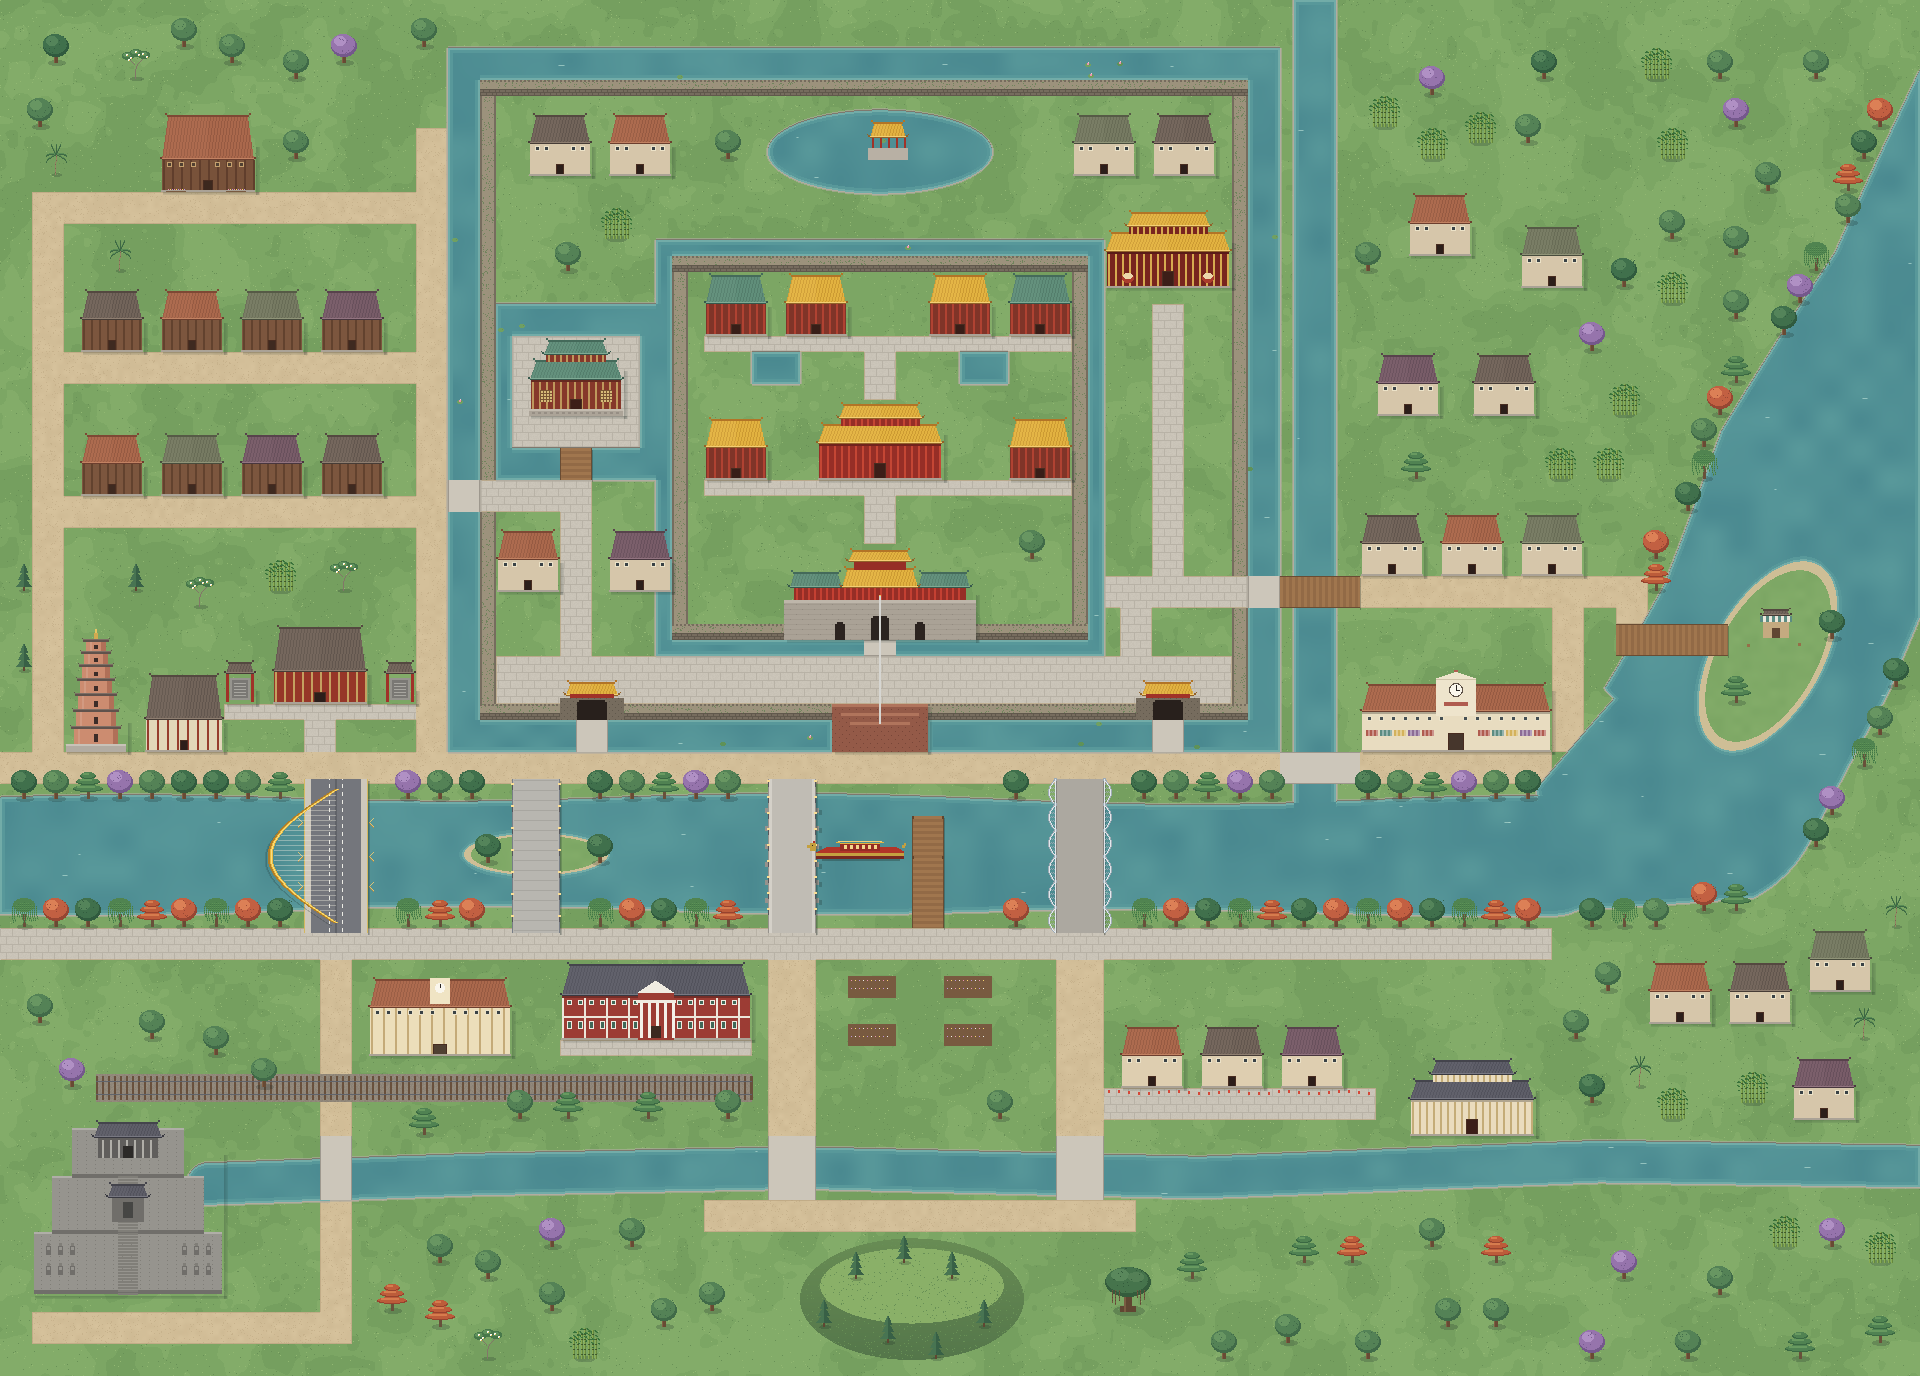
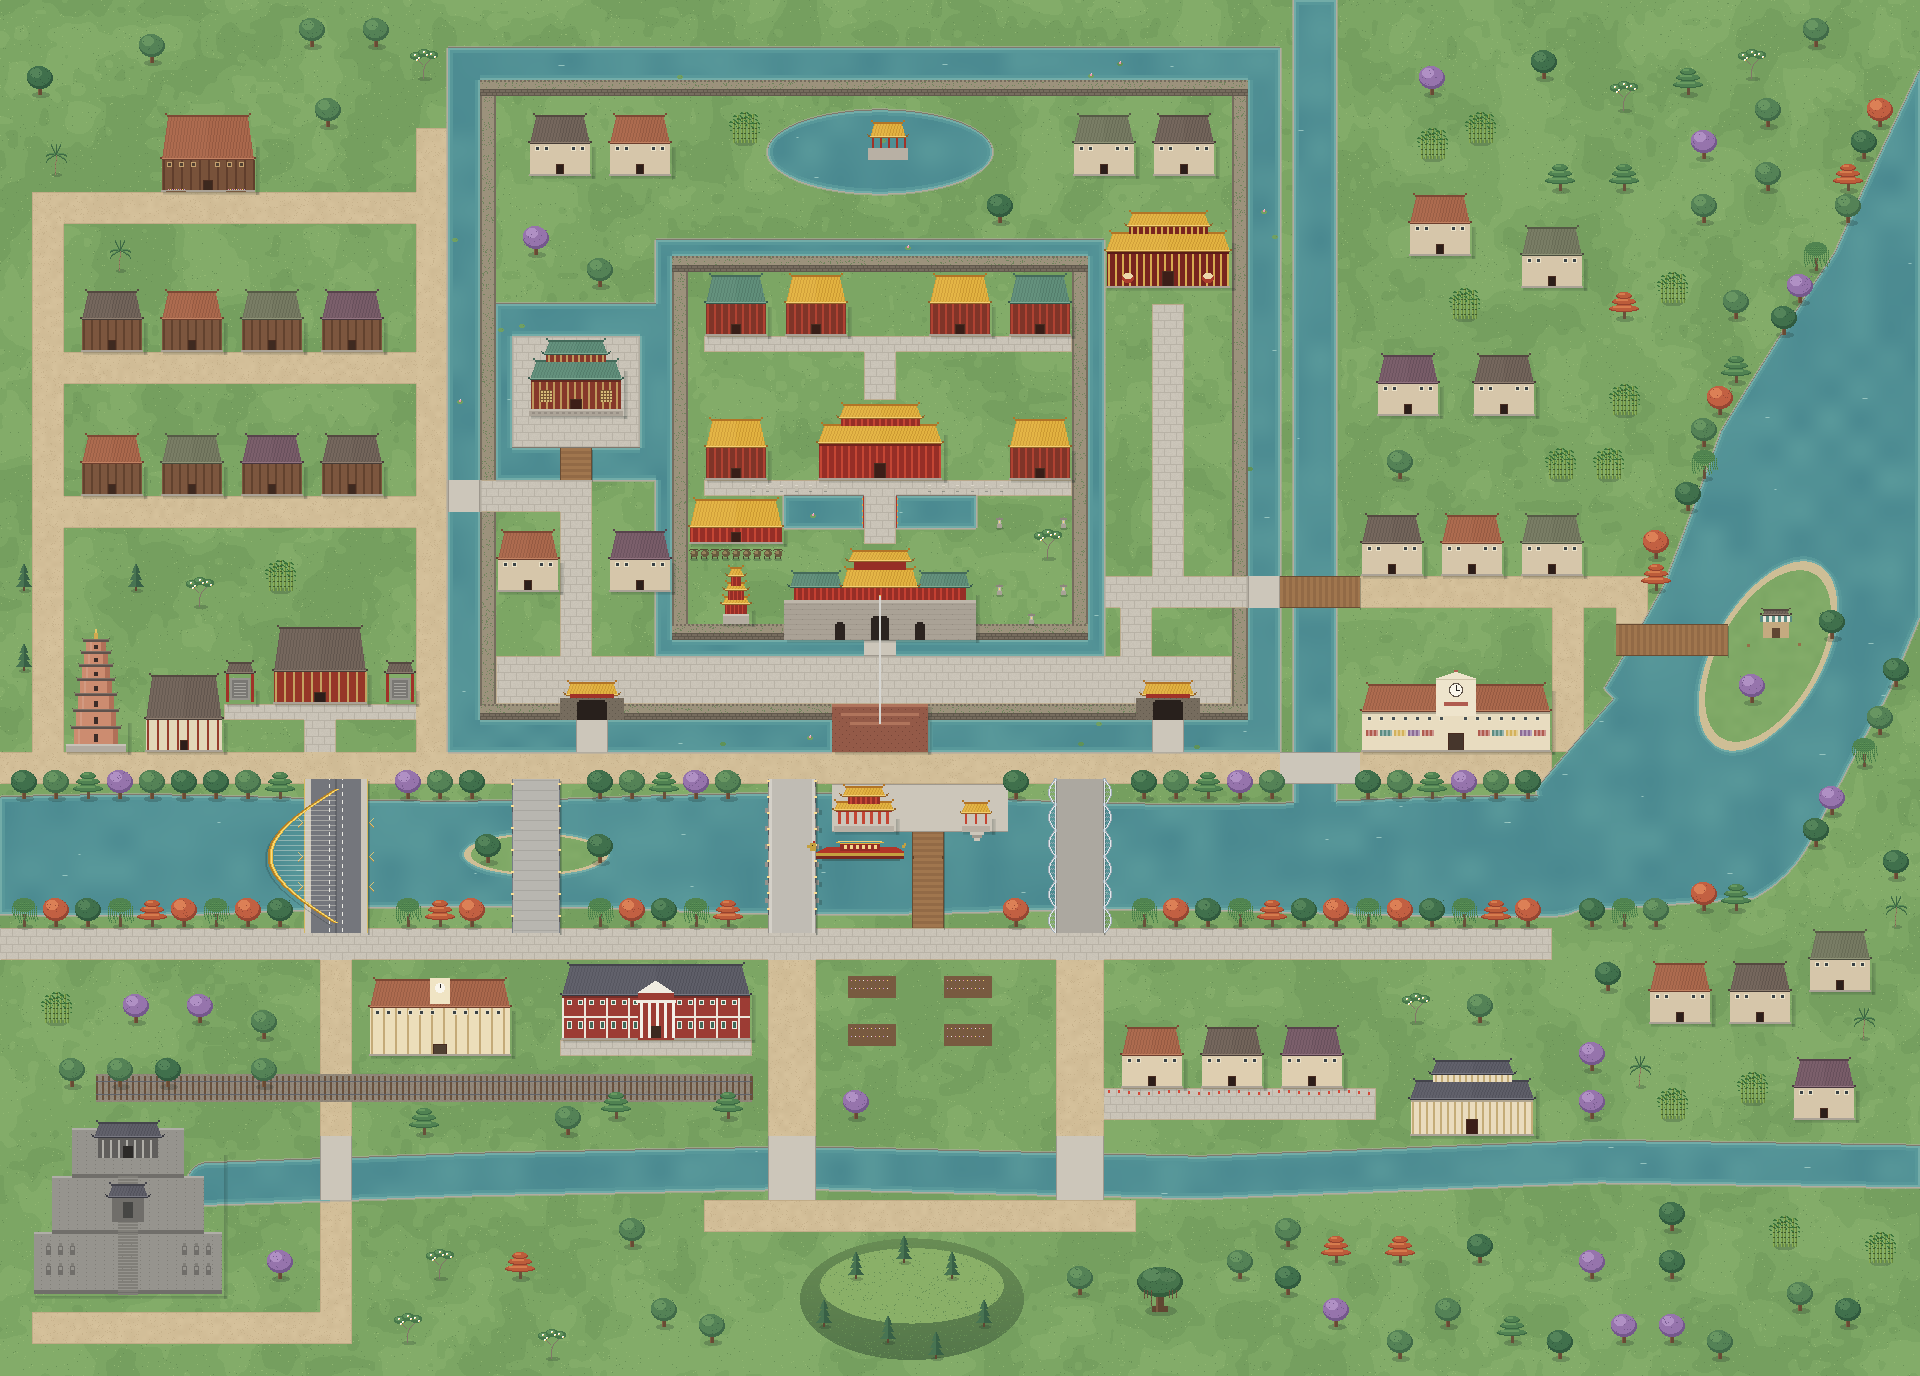
feat: the Imperial City in detail, and Phu Văn Lâu on the riverbank
Inside Đại Nội: Thái Dịch lake now lies before Thái Hòa as it does, its two
lotus ponds either side of Trung Đạo (red railings over the water), with the
mandarins' rank stones on the courtyard of Đại Triều Nghi. In the south-west
corner, Thế Miếu, the nine bronze urns of Cửu Đỉnh in a row, and the
three-tiered Hiển Lâm Các; in the south-east, a royal garden with stone
lanterns and frangipani.

On the river in front of Kỳ Đài, a stone landing carries Phu Văn Lâu, the
pavilion of edicts, and Nghênh Lương Đình at the water's edge, steps down to
the river, the dragon boats' pier between them. Each new place has its name
on the map and its story.

diff --git a/src/i18n/messages/vi/places.ts b/src/i18n/messages/vi/places.ts
@@ -131,4 +131,21 @@ export default {
   'places.nguyenHoangEn': 'Nguyễn Hoàng Bridge',
   'places.nguyenHoangAbout': 'Cây cầu mới nhất của Huế, vòm vàng vắt qua sông Hương phía thượng nguồn, hướng về Kim Long và Thiên Mụ.',
   'places.nguyenHoangFact': 'Cầu mang tên chúa Nguyễn Hoàng, người vào vùng đất này năm 1558 và dựng chùa Thiên Mụ.',
+
+  'places.phuVanLau': 'Phu Văn Lâu',
+  'places.phuVanLauEn': 'The Pavilion of Edicts',
+  'places.phuVanLauAbout': 'Lầu hai tầng bên bờ sông trước Kỳ Đài, xây năm 1819 dưới thời vua Gia Long, nơi triều đình niêm yết chiếu chỉ cho dân chúng đọc.',
+  'places.phuVanLauFact': 'Danh sách những người đỗ đạt trong các khoa thi cũng được yết tại đây — người dân kéo đến bờ sông tìm tên mình.',
+  'places.nghenhLuong': 'Nghênh Lương Đình',
+  'places.nghenhLuongEn': 'Pavilion of the Cool Breeze',
+  'places.nghenhLuongAbout': 'Ngôi đình nhỏ sát mép nước cạnh Phu Văn Lâu, nơi vua nghỉ ngơi đón gió sông và xuống thuyền rồng.',
+  'places.nghenhLuongFact': 'Tên đình có nghĩa là “đón gió mát” — chiều hè ở Huế, không đâu dễ chịu hơn.',
+  'places.theMieu': 'Thế Miếu',
+  'places.theMieuEn': 'The Dynastic Temple',
+  'places.theMieuAbout': 'Miếu thờ các vua triều Nguyễn trong Hoàng Thành, xây dưới thời vua Minh Mạng những năm 1820.',
+  'places.theMieuFact': 'Trước miếu là Cửu Đỉnh — chín chiếc đỉnh đồng lớn đúc những năm 1830, chạm hình núi sông, muông thú và cây cỏ Việt Nam.',
+  'places.hienLam': 'Hiển Lâm Các',
+  'places.hienLamEn': 'Pavilion of Glorious Merit',
+  'places.hienLamAbout': 'Gác ba tầng đối diện Thế Miếu, xây những năm 1820 để ghi công những người có công với triều đại.',
+  'places.hienLamFact': 'Theo lệ triều đình, không công trình nào trong Kinh Thành được cao hơn gác này.',
 } satisfies Record<keyof typeof en, string>;

diff --git a/src/i18n/messages/en/places.ts b/src/i18n/messages/en/places.ts
@@ -137,4 +137,21 @@ export default {
   'places.nguyenHoangEn': 'Nguyễn Hoàng Bridge',
   'places.nguyenHoangAbout': 'Huế’s newest bridge, its golden arch spanning the Perfume River upstream, towards Kim Long and Thiên Mụ.',
   'places.nguyenHoangFact': 'It’s named after Lord Nguyễn Hoàng, who came south to this land in 1558 and founded Thiên Mụ pagoda.',
+
+  'places.phuVanLau': 'Phu Văn Lâu',
+  'places.phuVanLauEn': 'The Pavilion of Edicts',
+  'places.phuVanLauAbout': 'A two-storey pavilion on the riverbank in front of the Flag Tower, built in 1819 under Emperor Gia Long, where the court posted its royal edicts for the city to read.',
+  'places.phuVanLauFact': 'The names of those who passed the royal exams were posted here too — crowds gathered on the bank to find their own.',
+  'places.nghenhLuong': 'Nghênh Lương Đình',
+  'places.nghenhLuongEn': 'Pavilion of the Cool Breeze',
+  'places.nghenhLuongAbout': 'A small pavilion at the water’s edge beside Phu Văn Lâu, where emperors rested in the river breeze and boarded the royal boats.',
+  'places.nghenhLuongFact': 'Its name means “the pavilion that welcomes the cool” — on a summer evening in Huế, there’s nowhere better to stand.',
+  'places.theMieu': 'Thế Miếu',
+  'places.theMieuEn': 'The Dynastic Temple',
+  'places.theMieuAbout': 'The temple of the Nguyễn emperors inside the Imperial City, built under Emperor Minh Mạng in the 1820s, where the court honoured the dynasty’s rulers.',
+  'places.theMieuFact': 'Before it stand Cửu Đỉnh, nine great bronze urns cast in the 1830s, decorated with Vietnam’s mountains, rivers, animals and plants.',
+  'places.hienLam': 'Hiển Lâm Các',
+  'places.hienLamEn': 'Pavilion of Glorious Merit',
+  'places.hienLamAbout': 'A three-tiered pavilion facing Thế Miếu, built in the 1820s to honour those who served the dynasty well.',
+  'places.hienLamFact': 'By royal rule, no building in the Citadel was allowed to stand taller than it.',
 } satisfies Catalog;

diff --git a/src/game/mapPlaces.ts b/src/game/mapPlaces.ts
@@ -25,6 +25,10 @@ export const LABEL_PLACES: Record<string, string> = {
   'Phố đi bộ': 'walkingStreet',
   'Cung An Định': 'anDinh',
   'Lăng Khải Định': 'khaiDinh',
+  'Phu Văn Lâu': 'phuVanLau',
+  'Nghênh Lương Đình': 'nghenhLuong',
+  'Thế Miếu': 'theMieu',
+  'Hiển Lâm Các': 'hienLam',
 };
 
 /** Where each keeper stands — walking up to one tells that place's story.
